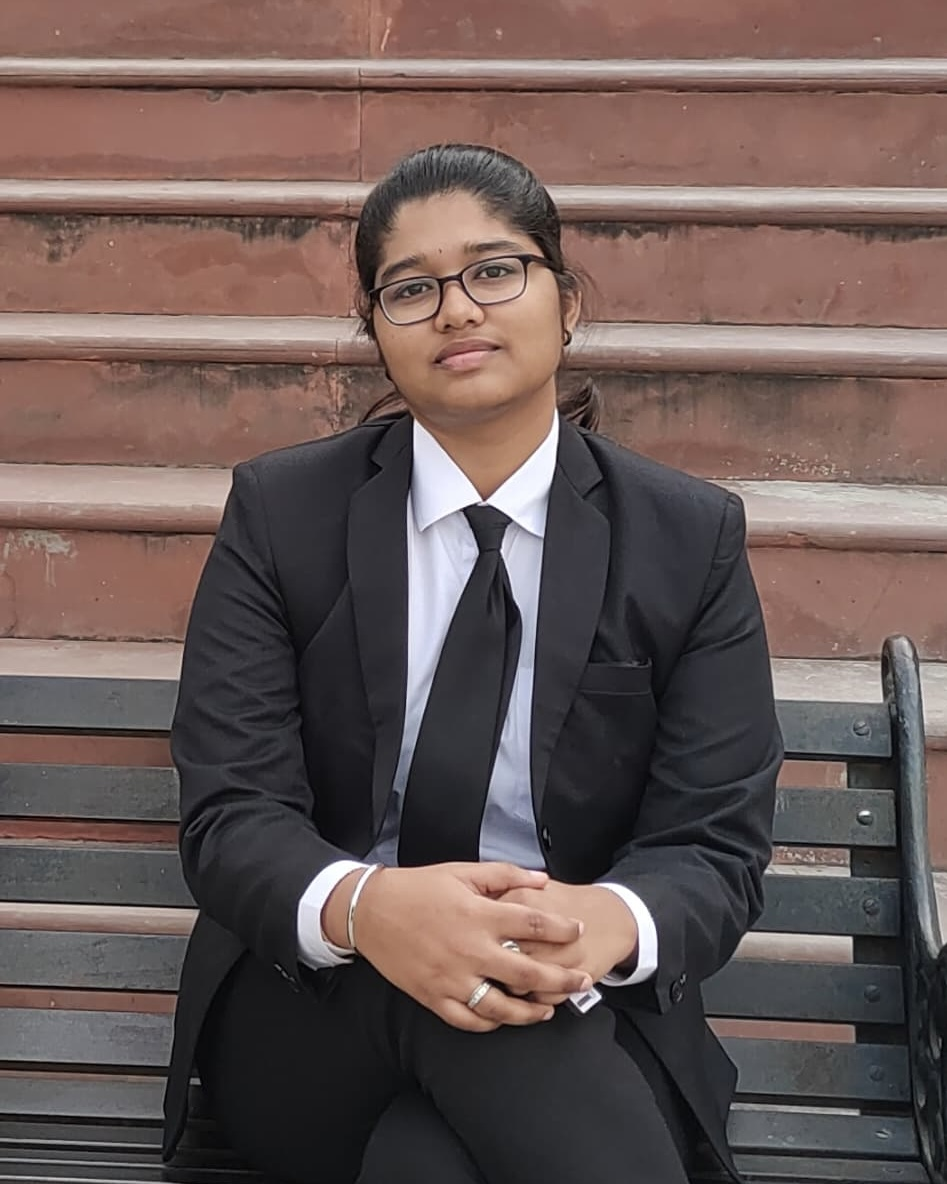
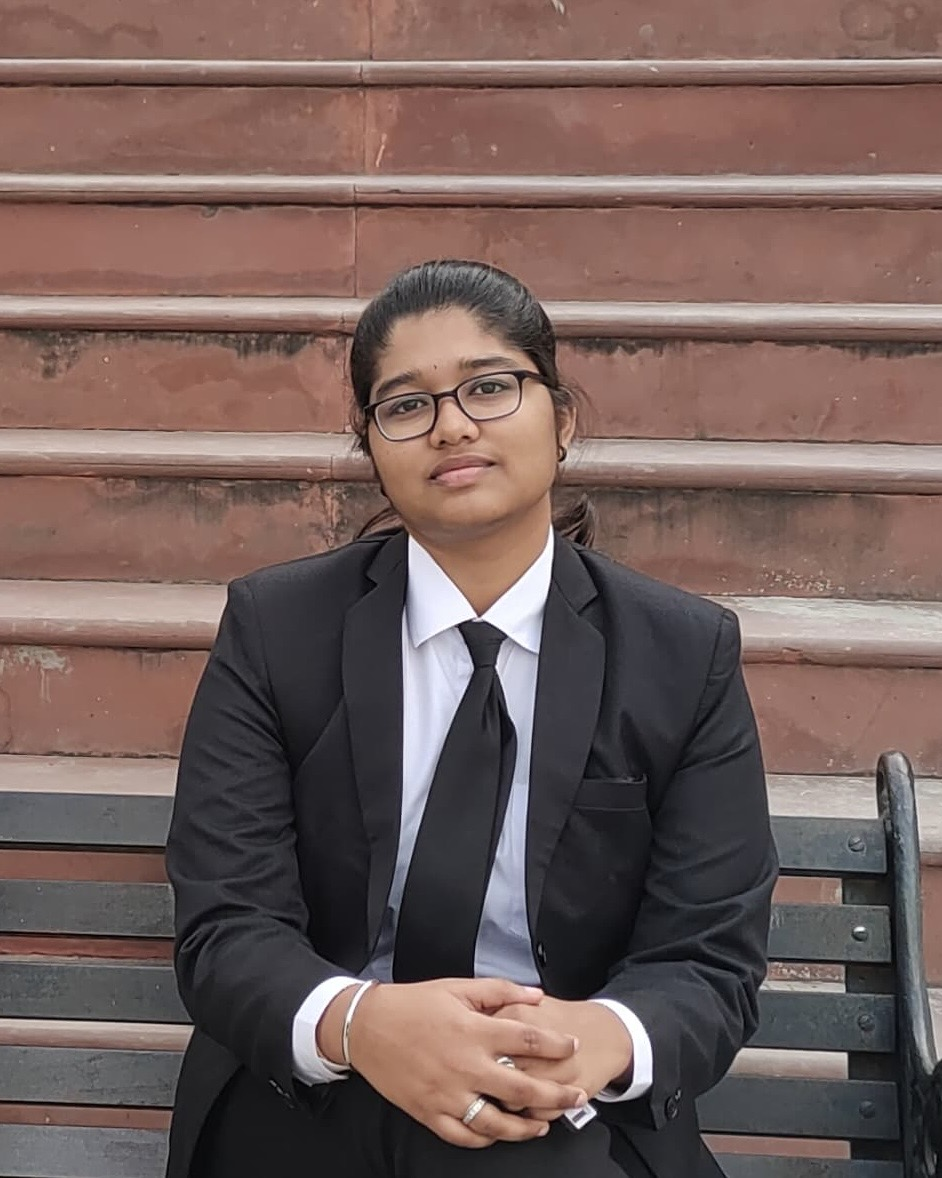
minor final changes

diff --git a/about.html b/about.html
@@ -34,14 +34,16 @@
       <div class="row">
           <div class="about-col">
              <h1>Who am I?</h1>
-             <p>Hi there, I am Yamini. I am Product Manager at Delfy backed by Blenheim Chalcot. in B.Tech Computer Science and Engineering specialised 
-               in Data Science (Artificial Intelligence and Machine Learning) at Lovely Professional University. I usually
-               develop responsive websites. I write blogs on how useful tech is, and upto what extent are we using technology.
-               I also educate and teach many students and friends about new tech that gets updated everyday.
+             <p>Hi, I’m Yamini. I’m currently a Product Manager at Delfy, a venture backed by Blenheim Chalcot, where I work at the intersection of product strategy,
+               AI, and customer-centric innovation. My background in data science, AI, and content generation has given me a unique perspective on building impactful 
+               products that are both scalable and deeply aligned with user needs. Having worked extensively with emerging technologies and GenAI applications, 
+               I bring a blend of management expertise and strategic vision to my role, driving value and efficiency through data-driven decisions. 
+               Additionally, my experience in project management, product management, and prompt engineering allows me to bridge the gap between development teams and 
+               business goals effectively.
              </p>
           </div>
           <div class="about-col">
-              <img src="images/profile pic.jpg">    
+              <img src="images/yamsdp.jpg">    
           </div>
       </div> 
 

diff --git a/index.html b/index.html
@@ -27,7 +27,7 @@
       <div class="text-box">
         <h1>Yamini Sallagundla</h1>
         <p>
-          Hello! I am Yamini, a Product Manager.<br> Experienced in building products
+          Hello! I am Yamini, a Product Manager.<br> Experienced in handling B2B products.
         </p>
         <a href="experience.html">
           Explore Now

diff --git a/form-handler.php b/form-handler.php
@@ -13,7 +13,7 @@ $email_body = "User Name: $name.\n".
                 "Subject: $servicetype.\n".
                 "User Message: $message.\n";
 
-$to = 'psavardhan@outlook.com';
+$to = 'sallagundlayamini@gmail.com';
 
 $headers = "From: $email_from \r\n";
 

diff --git a/README.md b/README.md
@@ -1,6 +1,6 @@
-# My-Portfolio
+# Portfolio
 
-This is my portfolio website. Later was improvised and changed. My latest portfolio is https://yaminisallagundla.github.io
+This is my portfolio website. The whole website is built around basic knowledge of HTML and CSS. Visit at https://yaminisallagundla.github.io
 
 <br>
 :) Yamini Sallagundla
